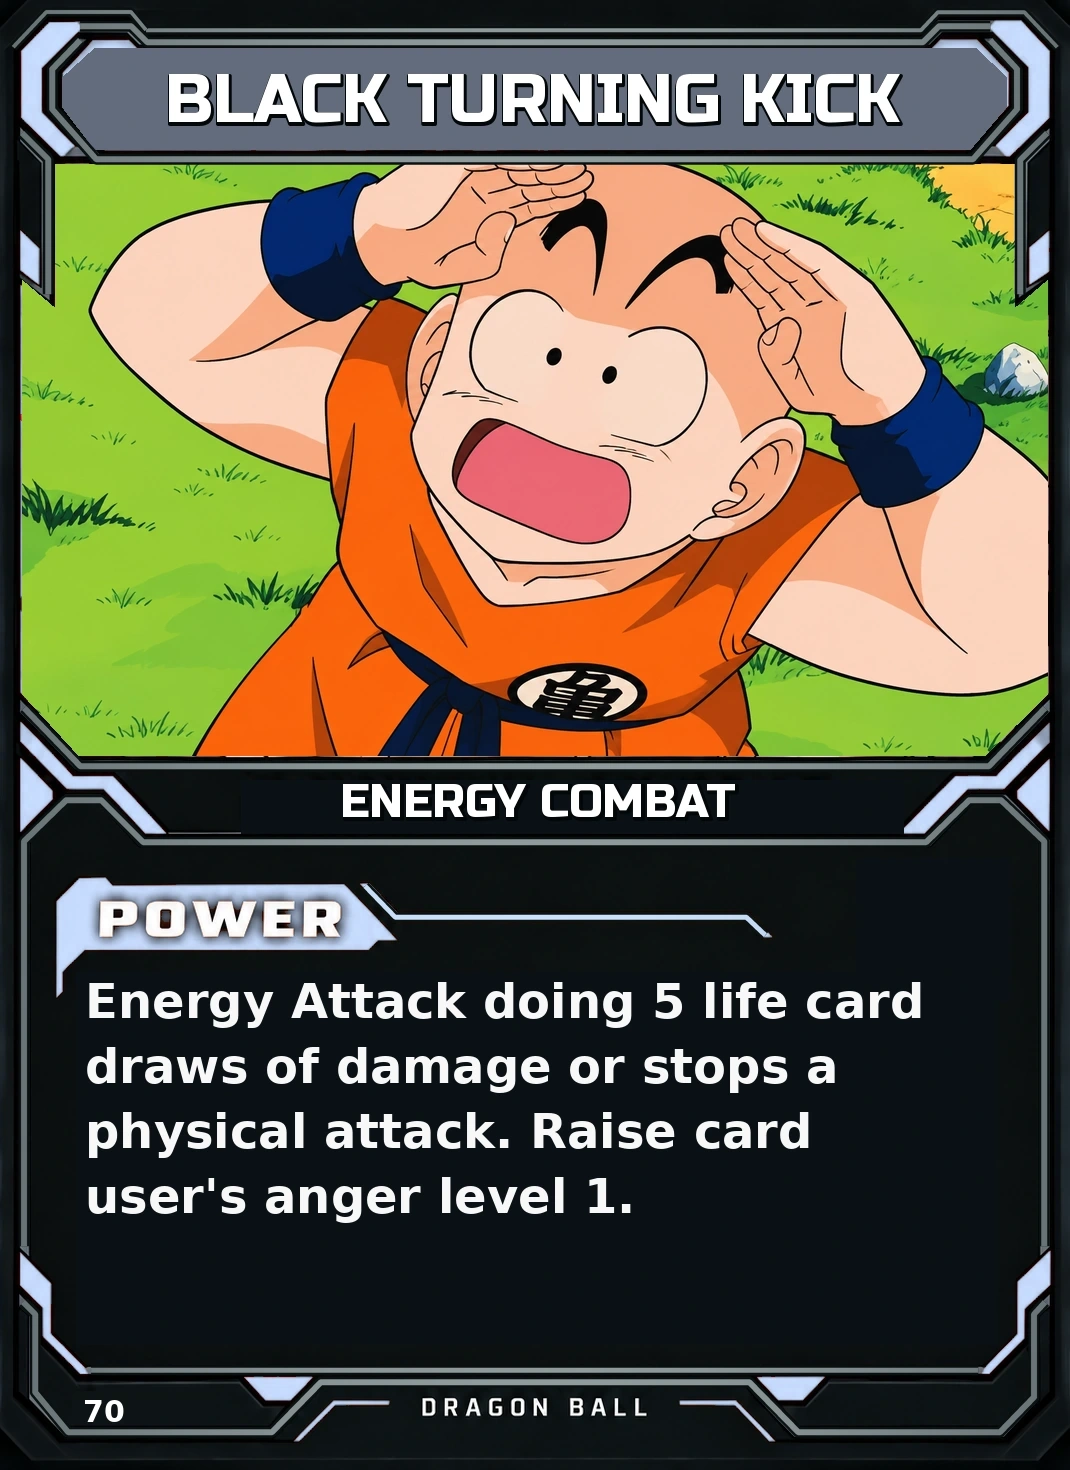
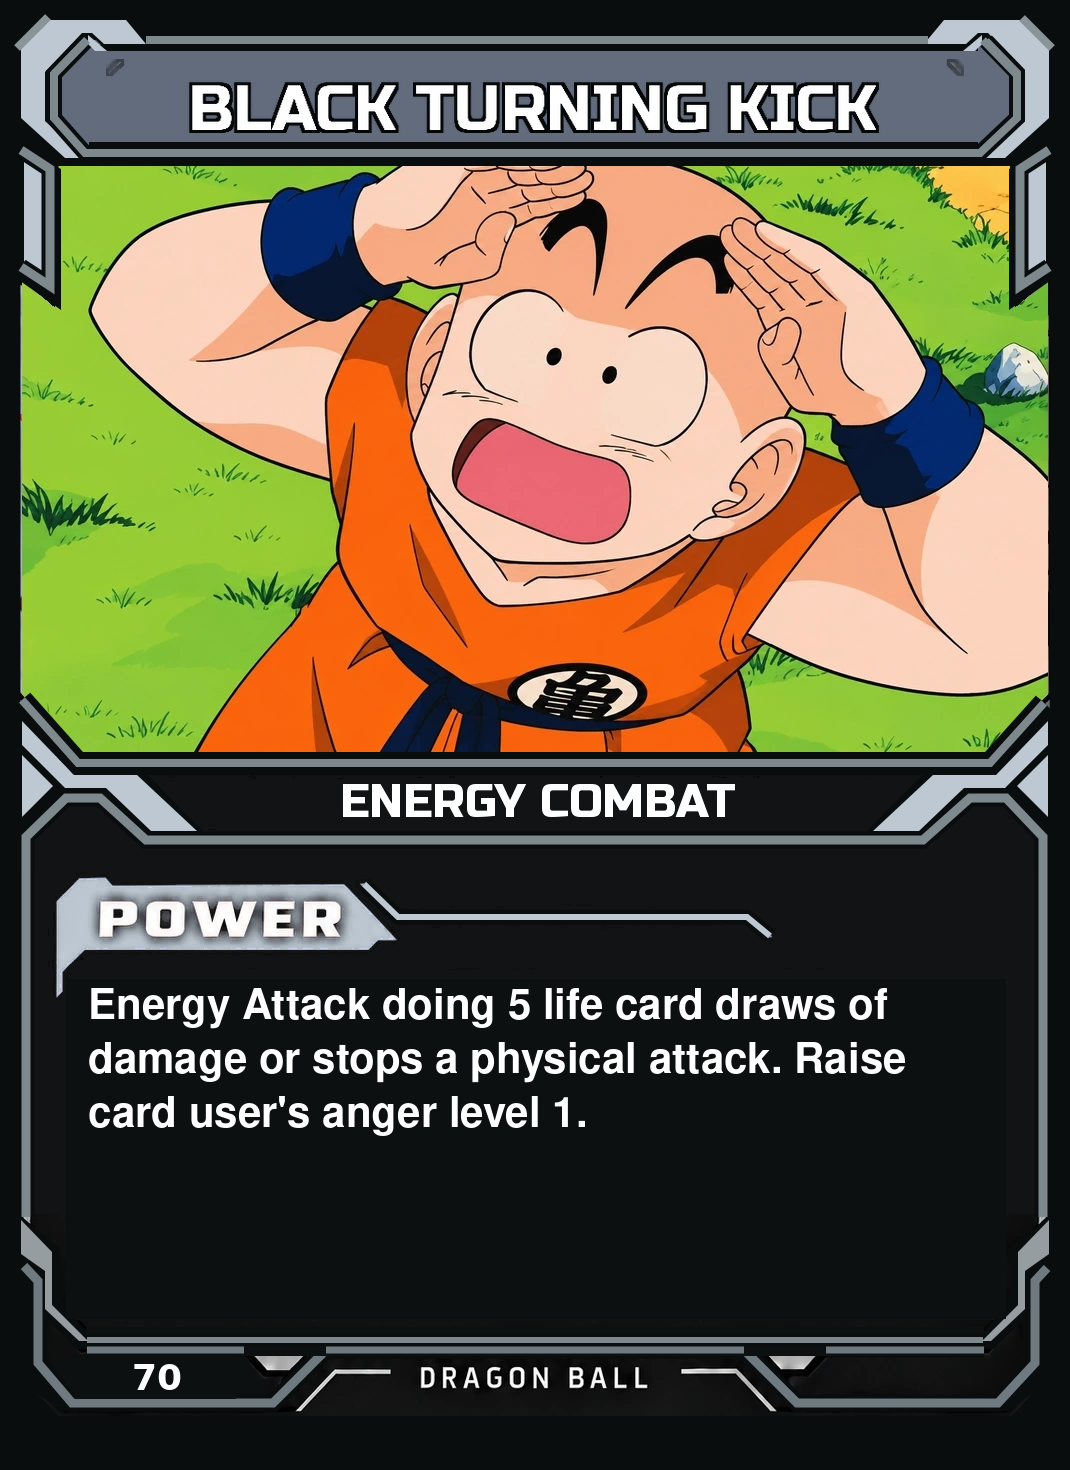
Apply approved card cleanup to Saiyan cards 61–70

Changed region(s): [[0.0, 0.4592, 1.0, 0.9796], [0.0, 0.0, 1.0, 0.2143], [0.9869, 0.2449, 1.0, 0.4592]]

diff --git a/public/cards/catalog.js b/public/cards/catalog.js
@@ -667,7 +667,7 @@ export const catalog = [
     "style": "Blue",
     "set": "Saiyan Saga",
     "status": "Ready",
-    "image": "/assets/cards/saiyan-061-blue-body-drop-throw.webp?v=d9816d042a",
+    "image": "/assets/cards/saiyan-061-blue-body-drop-throw.webp?v=00e5515918",
     "source": "https://retrodbzccg.com/card-images/saiyan-saga-uncommons/"
   },
   {
@@ -678,7 +678,7 @@ export const catalog = [
     "style": "Blue",
     "set": "Saiyan Saga",
     "status": "Ready",
-    "image": "/assets/cards/saiyan-062-blue-inner-leg-throw.webp?v=208d8ed47c",
+    "image": "/assets/cards/saiyan-062-blue-inner-leg-throw.webp?v=31ee5d6ba1",
     "source": "https://retrodbzccg.com/card-images/saiyan-saga-uncommons/"
   },
   {
@@ -689,7 +689,7 @@ export const catalog = [
     "style": "Blue",
     "set": "Saiyan Saga",
     "status": "Ready",
-    "image": "/assets/cards/saiyan-063-blue-big-whirl-throw.webp?v=ae956e38db",
+    "image": "/assets/cards/saiyan-063-blue-big-whirl-throw.webp?v=baa6d9351e",
     "source": "https://retrodbzccg.com/card-images/saiyan-saga-uncommons/"
   },
   {
@@ -700,7 +700,7 @@ export const catalog = [
     "style": "Blue",
     "set": "Saiyan Saga",
     "status": "Ready",
-    "image": "/assets/cards/saiyan-064-blue-ground-holding.webp?v=89119f65e9",
+    "image": "/assets/cards/saiyan-064-blue-ground-holding.webp?v=c19c914c75",
     "source": "https://retrodbzccg.com/card-images/saiyan-saga-uncommons/"
   },
   {
@@ -711,7 +711,7 @@ export const catalog = [
     "style": "Black",
     "set": "Saiyan Saga",
     "status": "Ready",
-    "image": "/assets/cards/saiyan-065-black-fore-fist-punch.webp?v=c395eaf89f",
+    "image": "/assets/cards/saiyan-065-black-fore-fist-punch.webp?v=1835e5488f",
     "source": "https://retrodbzccg.com/card-images/saiyan-saga-uncommons/"
   },
   {
@@ -722,7 +722,7 @@ export const catalog = [
     "style": "Black",
     "set": "Saiyan Saga",
     "status": "Ready",
-    "image": "/assets/cards/saiyan-066-black-knife-hand-strike.webp?v=f430a0eddb",
+    "image": "/assets/cards/saiyan-066-black-knife-hand-strike.webp?v=8cdbc67559",
     "source": "https://retrodbzccg.com/card-images/saiyan-saga-uncommons/"
   },
   {
@@ -733,7 +733,7 @@ export const catalog = [
     "style": "Black",
     "set": "Saiyan Saga",
     "status": "Ready",
-    "image": "/assets/cards/saiyan-067-black-elbow-strike.webp?v=9808b2a7bc",
+    "image": "/assets/cards/saiyan-067-black-elbow-strike.webp?v=2a43aa1f6d",
     "source": "https://retrodbzccg.com/card-images/saiyan-saga-uncommons/"
   },
   {
@@ -744,7 +744,7 @@ export const catalog = [
     "style": "Black",
     "set": "Saiyan Saga",
     "status": "Ready",
-    "image": "/assets/cards/saiyan-068-black-front-kick.webp?v=e42a477dba",
+    "image": "/assets/cards/saiyan-068-black-front-kick.webp?v=7eae900adf",
     "source": "https://retrodbzccg.com/card-images/saiyan-saga-uncommons/"
   },
   {
@@ -755,7 +755,7 @@ export const catalog = [
     "style": "Black",
     "set": "Saiyan Saga",
     "status": "Ready",
-    "image": "/assets/cards/saiyan-069-black-side-kick.webp?v=dc44a3405a",
+    "image": "/assets/cards/saiyan-069-black-side-kick.webp?v=e737513ce0",
     "source": "https://retrodbzccg.com/card-images/saiyan-saga-uncommons/"
   },
   {
@@ -766,7 +766,7 @@ export const catalog = [
     "style": "Black",
     "set": "Saiyan Saga",
     "status": "Ready",
-    "image": "/assets/cards/saiyan-070-black-turning-kick.webp?v=7549d3905d",
+    "image": "/assets/cards/saiyan-070-black-turning-kick.webp?v=ca47b12345",
     "source": "https://retrodbzccg.com/card-images/saiyan-saga-uncommons/"
   },
   {

diff --git a/docs/saiyan-saga-upload-handoff.md b/docs/saiyan-saga-upload-handoff.md
@@ -2,7 +2,7 @@
 
 The repository retains 266 recovered image exports, including alternate prints. The active catalog contains **257 unique cards**: #1–250 plus seven promos. Assets are 1070 × 1470 WebP. Additions and refreshes are committed in batches of at most 10. Do not duplicate set entries or restore archived duplicate variants to the active catalog.
 
-The approved standard-frame cleanup is complete through **#60**. The next sequential batch starts at **#61**. Cards #21–70 contain no personalities. See `saiyan-approved-cleanup-001-020.json` and `saiyan-approved-cleanup-021-070.json` for asset versions.
+The approved standard-frame cleanup is complete through **#70**. The next sequential batch starts at **#71**. Cards #21–70 contain no personalities. See `saiyan-approved-cleanup-001-020.json` and `saiyan-approved-cleanup-021-070.json` for asset versions.
 
 Standard cards use clean vector borders, consistent 42 px ability text, shadowless card numbers, and gray Freestyle frames. Preserve the source artwork and exact rules. `tools/card-frames/render-standard-range.py` recreates #21–70 from immutable source commit `f960acd8795d3033a8a6a6a8c8c8b78c9fef8cbb`.
 
